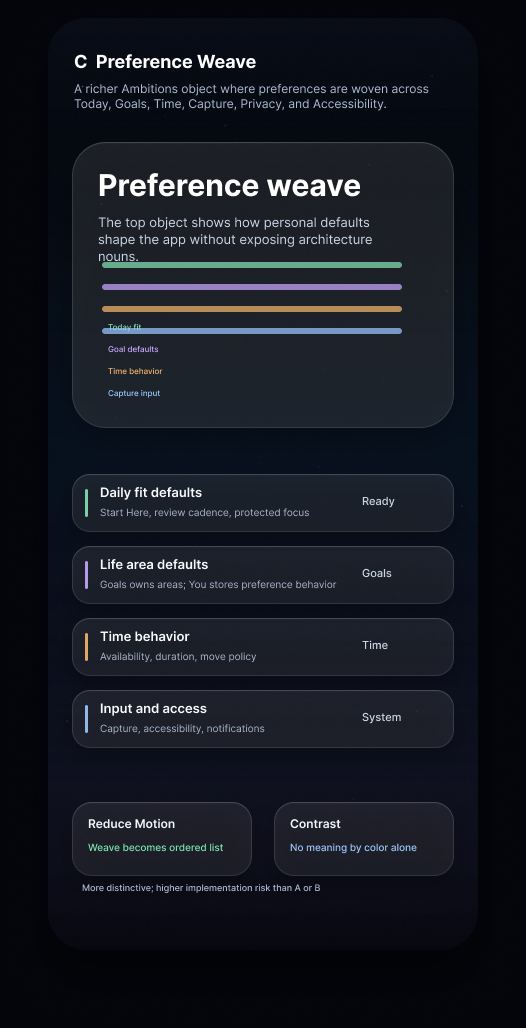
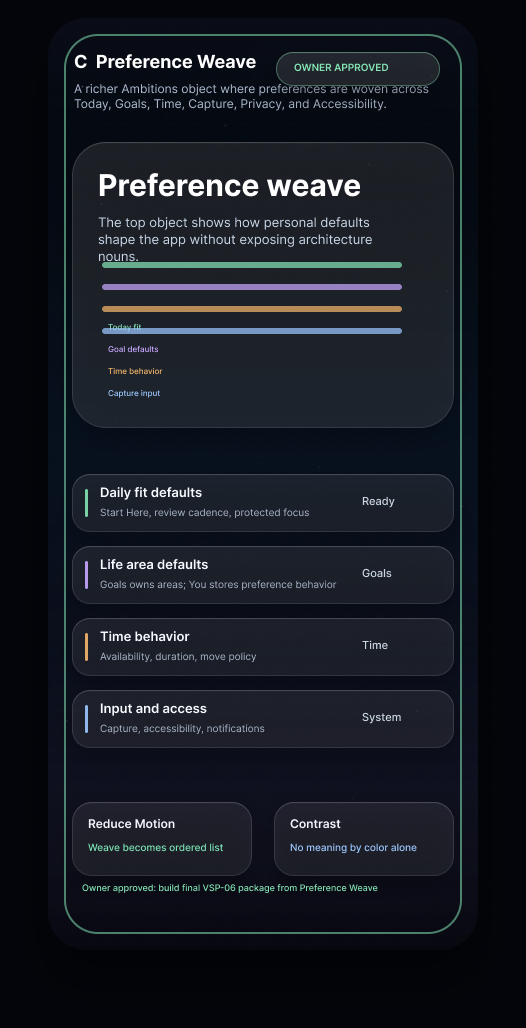
Record VSP-06 Preference Weave owner approval

Changed region(s): [[0.5171, 0.0311, 0.8821, 0.9027], [0.1217, 0.0311, 0.6388, 0.9027], [0.6692, 0.8405, 0.6996, 0.8716]]

diff --git a/docs/design/provenance/VSP-SwiftUI-Provenance-Map.md b/docs/design/provenance/VSP-SwiftUI-Provenance-Map.md
@@ -23,7 +23,7 @@ VSP-01 is the immutable approved shell authority. VSP-02 through VSP-10 are Yell
 | VSP-03 | Goals Life Area Atlas | surface_content | docs/qa/evidence/2026-06-29-vsp-north-star-figma/images/vsp-03-goals-hero-r1-repaired.png<br>docs/qa/evidence/2026-06-29-vsp-north-star-figma/images/vsp-03-goals-crop-r1.png<br>docs/qa/evidence/2026-06-29-vsp-north-star-figma/images/vsp-03-goals-launch-board-r1.png<br>docs/qa/evidence/2026-06-30-vsp-03-part-02-living-map-territory-refinements-r1/vsp-03-part-02-territory-refinements-board-r1.png<br>docs/qa/evidence/2026-06-30-vsp-03-part-02-living-map-territory-refinements-r1/vsp-03-part-02-d1-continuous-territory-field-r1.png<br>docs/qa/evidence/2026-06-30-vsp-03-part-02-living-map-territory-refinements-r1/vsp-03-part-02-d2-editable-atlas-boundaries-r1.png<br>docs/qa/evidence/2026-06-30-vsp-03-part-02-living-map-territory-refinements-r1/vsp-03-part-02-d3-path-overlay-territory-r1.png<br>docs/qa/evidence/2026-06-30-vsp-03-part-02-living-map-territory-refinements-r1/vsp-03-part-02-d4-capacity-weather-map-r1.png<br>docs/qa/evidence/2026-06-30-vsp-03-part-02-living-map-territory-refinements-r1/vsp-03-part-02-d5-focus-lens-territory-r1.png<br>docs/qa/evidence/2026-06-30-vsp-03-part-02-living-map-territory-refinements-r1/vsp-03-part-02-d6-open-field-shoreline-r1.png<br>docs/qa/evidence/2026-06-30-vsp-03-part-02-d5-selection-r1/vsp-03-part-02-d5-selection-board-r1.png<br>docs/qa/evidence/2026-06-30-vsp-03-part-02-d5-selection-r1/vsp-03-part-02-d5-selected-crop-r1.png<br>docs/qa/evidence/2026-06-30-vsp-03-d5-owner-review-package-r1/vsp-03-d5-owner-review-package-r1-board.png<br>docs/qa/evidence/2026-06-30-vsp-03-d5-owner-review-package-r1/vsp-03-d5-owner-review-package-r1-hero.png<br>docs/qa/evidence/2026-06-30-vsp-03-d5-owner-review-package-r1/vsp-03-d5-owner-review-package-r1-state-matrix.png<br>docs/qa/evidence/2026-06-30-vsp-03-d5-owner-review-package-r1/vsp-03-d5-owner-review-package-r1-accessibility-matrix.png<br>docs/qa/evidence/2026-06-30-vsp-03-d5-owner-review-package-r1/vsp-03-d5-owner-review-package-r1-swiftui-anatomy.png<br>docs/qa/evidence/2026-06-30-vsp-03-d5-owner-review-package-r1/vsp-03-d5-owner-review-package-r1-marketing-crop.png<br>docs/qa/evidence/2026-06-30-vsp-03-d5-owner-review-package-r1/vsp-03-d5-owner-review-package-r1-non-claims.png<br>docs/qa/evidence/2026-06-29-vsp-north-star-figma/screenshot-index.md<br>docs/qa/evidence/2026-06-29-vsp-north-star-figma/visual-audit-ledger.md<br>docs/design/provenance/figma-frames/VSP-03-part-01-life-area-atlas-root-object-options-R1.md<br>docs/qa/evidence/2026-06-30-vsp-03-part-01-life-area-atlas-options-r1/manifest.md<br>docs/design/provenance/figma-frames/VSP-03-part-02-living-map-territory-refinements-R1.md<br>docs/qa/evidence/2026-06-30-vsp-03-part-02-living-map-territory-refinements-r1/manifest.md<br>docs/design/provenance/figma-frames/VSP-03-part-02-D5-focus-lens-selection-R1.md<br>docs/qa/evidence/2026-06-30-vsp-03-part-02-d5-selection-r1/manifest.md<br>docs/design/provenance/figma-frames/VSP-03-D5-focus-lens-owner-review-package-R1.md<br>docs/qa/evidence/2026-06-30-vsp-03-d5-owner-review-package-r1/manifest.md<br>docs/design/provenance/owner-approvals/VSP-03-D5-Focus-Lens-Territory-approval.md | Native/Ambitions/Surfaces/Goals/GoalsSurface.swift<br>Native/Ambitions/Surfaces/Goals/GoalsObjectView.swift<br>Native/Ambitions/Projection/StageScenes/GoalsStageScene.swift | Native/Ambitions/Surfaces/Goals<br>Native/Ambitions/Projection/StageScenes<br>Sources/Components | Native/Ambitions/Stage shell mutations<br>generic project-board root pattern<br>productivity-score or ranking root<br>stale top-level IA | AMB-1482 | Yellow | live SwiftUI screenshot<br>device screenshot<br>Dynamic Type<br>VoiceOver<br>Reduce Motion<br>Increase Contrast<br>Reduce Transparency<br>haptics<br>runtime behavior | Spec Ready |
 | VSP-04 | Time / Native Month Life Calendar | surface_content | docs/qa/evidence/2026-06-29-vsp-north-star-figma/images/vsp-04-time-hero-r1-repaired.png<br>docs/qa/evidence/2026-06-29-vsp-north-star-figma/images/vsp-04-time-crop-r1.png<br>docs/qa/evidence/2026-06-29-vsp-north-star-figma/images/vsp-04-time-launch-board-r1.png<br>docs/qa/evidence/2026-06-30-vsp-04-part-01-lifeshape-options-r1/vsp-04-part-01-options-board-r1.png<br>docs/qa/evidence/2026-06-30-vsp-04-part-01-lifeshape-options-r1/vsp-04-part-01-option-a-lifeshape-field-r1.png<br>docs/qa/evidence/2026-06-30-vsp-04-part-01-lifeshape-options-r1/vsp-04-part-01-option-b-protected-time-weave-r1.png<br>docs/qa/evidence/2026-06-30-vsp-04-part-01-lifeshape-options-r1/vsp-04-part-01-option-c-day-night-tide-r1.png<br>docs/qa/evidence/2026-06-30-vsp-04-part-01-lifeshape-options-r1/vsp-04-part-01-option-d-time-loom-meridian-r1.png<br>docs/qa/evidence/2026-06-30-vsp-04-part-01-lifeshape-options-r1/vsp-04-part-01-option-e-capacity-topography-r1.png<br>docs/qa/evidence/2026-06-30-vsp-04-part-01-lifeshape-options-r1/vsp-04-part-01-option-f-aperture-calendar-field-r1.png<br>docs/qa/evidence/2026-06-30-vsp-04-part-02-native-month-life-calendar-r1/vsp-04-part-02-native-month-options-board-r1.png<br>docs/qa/evidence/2026-06-30-vsp-04-part-02-native-month-life-calendar-r1/vsp-04-part-02-option-a-native-capacity-month-r1.png<br>docs/qa/evidence/2026-06-30-vsp-04-part-02-native-month-life-calendar-r1/vsp-04-part-02-option-b-unequal-week-bands-r1.png<br>docs/qa/evidence/2026-06-30-vsp-04-part-02-native-month-life-calendar-r1/vsp-04-part-02-option-c-current-aperture-month-r1.png<br>docs/qa/evidence/2026-06-30-vsp-04-part-02-native-month-life-calendar-r1/vsp-04-part-02-option-d-protected-month-r1.png<br>docs/qa/evidence/2026-06-30-vsp-04-part-02-native-month-life-calendar-r1/vsp-04-part-02-option-e-goal-fit-month-r1.png<br>docs/qa/evidence/2026-06-30-vsp-04-part-02-native-month-life-calendar-r1/vsp-04-part-02-option-f-apple-native-life-calendar-r1.png<br>docs/qa/evidence/2026-06-30-vsp-04-part-02-f-selection-r1/vsp-04-part-02-f-selection-board-r1.png<br>docs/qa/evidence/2026-06-30-vsp-04-part-02-f-selection-r1/vsp-04-part-02-f-selected-crop-r1.png<br>docs/qa/evidence/2026-06-30-vsp-04-f-owner-review-package-r1/vsp-04-f-owner-review-package-r1-board.png<br>docs/qa/evidence/2026-06-30-vsp-04-f-owner-review-package-r1/vsp-04-f-owner-review-package-r1-hero.png<br>docs/qa/evidence/2026-06-30-vsp-04-f-owner-review-package-r1/vsp-04-f-owner-review-package-r1-state-matrix.png<br>docs/qa/evidence/2026-06-30-vsp-04-f-owner-review-package-r1/vsp-04-f-owner-review-package-r1-accessibility-matrix.png<br>docs/qa/evidence/2026-06-30-vsp-04-f-owner-review-package-r1/vsp-04-f-owner-review-package-r1-swiftui-anatomy.png<br>docs/qa/evidence/2026-06-30-vsp-04-f-owner-review-package-r1/vsp-04-f-owner-review-package-r1-marketing-crop.png<br>docs/qa/evidence/2026-06-30-vsp-04-f-owner-review-package-r1/vsp-04-f-owner-review-package-r1-non-claims.png<br>docs/qa/evidence/2026-06-29-vsp-north-star-figma/screenshot-index.md<br>docs/qa/evidence/2026-06-29-vsp-north-star-figma/visual-audit-ledger.md<br>docs/design/targets/time/lifeshape_field_visual_target.md<br>docs/design/provenance/figma-frames/VSP-04-part-01-time-lifeshape-root-object-options-R1.md<br>docs/qa/evidence/2026-06-30-vsp-04-part-01-lifeshape-options-r1/manifest.md<br>docs/design/provenance/figma-frames/VSP-04-part-02-native-month-life-calendar-options-R1.md<br>docs/qa/evidence/2026-06-30-vsp-04-part-02-native-month-life-calendar-r1/manifest.md<br>docs/design/provenance/figma-frames/VSP-04-part-02-F-apple-native-life-calendar-selection-R1.md<br>docs/qa/evidence/2026-06-30-vsp-04-part-02-f-selection-r1/manifest.md<br>docs/design/provenance/owner-approvals/VSP-04-F-Apple-Native-Life-Calendar-direction-approval.md<br>docs/design/provenance/figma-frames/VSP-04-F-apple-native-life-calendar-owner-review-package-R1.md<br>docs/qa/evidence/2026-06-30-vsp-04-f-owner-review-package-r1/manifest.md<br>docs/design/provenance/owner-approvals/VSP-04-F-Apple-Native-Life-Calendar-package-approval.md | Native/Ambitions/Surfaces/Time/TimeSurface.swift<br>Native/Ambitions/Surfaces/Time/TimeObjectView.swift<br>Native/Ambitions/Surfaces/Time/TimeAccessibility.swift | Native/Ambitions/Surfaces/Time<br>Native/Ambitions/Core/Time<br>Native/Ambitions/Core/LocalRuntimeOS/TimeEngine<br>Native/Ambitions/DesignSystem/ProductObjects<br>Native/Ambitions/Rendering/CanvasPrimitives<br>Sources/Components | Native/Ambitions/Stage shell mutations<br>calendar-clone-only root pattern<br>top-level stale planning IA<br>unproven external calendar dependency for core value<br>Today-owned day timeline duplication as Time root | AMB-1483 | Yellow | live SwiftUI screenshot<br>device screenshot<br>Dynamic Type<br>VoiceOver<br>Reduce Motion<br>Increase Contrast<br>Reduce Transparency<br>haptics<br>runtime behavior | Spec Ready |
 | VSP-05 | Capture Open Field Composer | global_composer | docs/qa/evidence/2026-06-30-vsp-05-f-owner-review-package-r3/vsp-05-f-owner-review-package-r3-board.png<br>docs/qa/evidence/2026-06-30-vsp-05-f-owner-review-package-r3/vsp-05-f-owner-review-package-r3-hero.png<br>docs/qa/evidence/2026-06-30-vsp-05-f-owner-review-package-r3/vsp-05-f-owner-review-package-r3-state-matrix.png<br>docs/qa/evidence/2026-06-30-vsp-05-f-owner-review-package-r3/vsp-05-f-owner-review-package-r3-accessibility-matrix.png<br>docs/qa/evidence/2026-06-30-vsp-05-f-owner-review-package-r3/vsp-05-f-owner-review-package-r3-swiftui-anatomy.png<br>docs/qa/evidence/2026-06-30-vsp-05-f-owner-review-package-r3/vsp-05-f-owner-review-package-r3-marketing-crop.png<br>docs/qa/evidence/2026-06-30-vsp-05-f-owner-review-package-r3/vsp-05-f-owner-review-package-r3-non-claims.png<br>docs/qa/evidence/2026-06-30-vsp-05-part-01-capture-options-r2/vsp-05-part-01-option-f-quiet-placement-review-r2.png<br>docs/qa/evidence/2026-06-30-vsp-05-part-01-capture-options-r2/vsp-05-part-01-options-board-r2.png<br>docs/qa/evidence/2026-06-30-vsp-05-part-01-capture-options-r2/vsp-05-part-01-option-d-keyboard-native-stage-composer-r2.png<br>docs/qa/evidence/2026-06-30-vsp-05-part-01-capture-options-r2/vsp-05-part-01-option-b-route-bloom-composer-r2.png<br>docs/design/provenance/figma-frames/VSP-05-F-quiet-placement-review-owner-review-package-R3.md<br>docs/design/provenance/owner-approvals/VSP-05-F-Quiet-Placement-Review-package-approval.md<br>docs/qa/evidence/2026-06-30-vsp-05-f-owner-review-package-r3/manifest.md<br>docs/design/provenance/owner-approvals/VSP-05-F-Quiet-Placement-Review-direction-approval.md<br>docs/design/provenance/figma-frames/VSP-05-part-01-global-capture-composer-options-R2.md<br>docs/qa/evidence/2026-06-30-vsp-05-part-01-capture-options-r2/manifest.md<br>docs/qa/evidence/2026-06-30-vsp-05-part-01-capture-options-r1/manifest.md<br>docs/qa/evidence/2026-06-30-vsp-05-part-01-capture-options-r1/vsp-05-part-01-options-board-r1.png | Native/Ambitions/Composer/Capture/CaptureComposerSurface.swift<br>Native/Ambitions/Composer/Capture/CaptureSurface.swift<br>Native/Ambitions/Composer/Capture/CaptureObjectView.swift | Native/Ambitions/Composer/Capture<br>Native/Ambitions/Stage/Overlays<br>Sources/Components | Native/Ambitions/Surfaces/Capture<br>Capture root tab<br>Capture inbox/feed<br>chatbot composer as core architecture<br>persistent floating root affordance | AMB-1484 | Yellow | live SwiftUI screenshot<br>device screenshot<br>Dynamic Type<br>VoiceOver<br>Reduce Motion<br>Increase Contrast<br>Reduce Transparency<br>haptics<br>runtime behavior | Spec Ready |
-| VSP-06 | You Native Settings | surface_content | docs/qa/evidence/2026-06-30-vsp-06-part-03-ambitions-owned-you-directions-r1/images/vsp-06-part-03-ambitions-owned-you-directions-board-r1.png<br>docs/qa/evidence/2026-06-30-vsp-06-part-03-ambitions-owned-you-directions-r1/images/vsp-06-option-d-local-control-observatory-r1.png<br>docs/qa/evidence/2026-06-30-vsp-06-part-03-ambitions-owned-you-directions-r1/images/vsp-06-option-b-trust-meridian-r1.png<br>docs/qa/evidence/2026-06-30-vsp-06-part-03-ambitions-owned-you-directions-r1/images/vsp-06-option-a-personal-os-field-r1.png<br>docs/qa/evidence/2026-06-30-vsp-06-part-03-ambitions-owned-you-directions-r1/images/vsp-06-option-c-preference-weave-r1.png<br>docs/design/provenance/figma-frames/VSP-06-part-03-ambitions-owned-you-directions-R1.md<br>docs/qa/evidence/2026-06-30-vsp-06-part-03-ambitions-owned-you-directions-r1/manifest.md<br>docs/design/provenance/figma-frames/VSP-06-part-02-settings-reference-adaptations-R1.md<br>docs/design/provenance/figma-frames/VSP-06-part-01-you-native-settings-options-R1.md<br>docs/qa/evidence/2026-06-30-vsp-06-part-02-settings-reference-adaptations-r1/manifest.md<br>docs/qa/evidence/2026-06-30-vsp-06-part-01-you-options-r1/manifest.md | Native/Ambitions/Surfaces/You/YouSurface.swift<br>Native/Ambitions/Surfaces/You/YouRootSurface.swift<br>Native/Ambitions/Surfaces/You/YouObjectView.swift | Native/Ambitions/Surfaces/You<br>Native/Ambitions/Trust<br>Sources/Components | old profile IA as root<br>account-required core value<br>private runtime graph backend<br>generic settings dashboard without real controls | AMB-1485 | Yellow | owner approval<br>live SwiftUI screenshot<br>device screenshot<br>Dynamic Type<br>VoiceOver<br>Reduce Motion<br>Increase Contrast<br>Reduce Transparency<br>runtime behavior<br>privacy boundary | Ready For Review |
+| VSP-06 | You Native Settings | surface_content | docs/qa/evidence/2026-06-30-vsp-06-part-03-ambitions-owned-you-directions-r1/images/vsp-06-option-c-preference-weave-r1.png<br>docs/qa/evidence/2026-06-30-vsp-06-part-03-ambitions-owned-you-directions-r1/images/vsp-06-part-03-ambitions-owned-you-directions-board-r1.png<br>docs/qa/evidence/2026-06-30-vsp-06-part-03-ambitions-owned-you-directions-r1/images/vsp-06-option-d-local-control-observatory-r1.png<br>docs/qa/evidence/2026-06-30-vsp-06-part-03-ambitions-owned-you-directions-r1/images/vsp-06-option-b-trust-meridian-r1.png<br>docs/qa/evidence/2026-06-30-vsp-06-part-03-ambitions-owned-you-directions-r1/images/vsp-06-option-a-personal-os-field-r1.png<br>docs/qa/evidence/2026-06-30-vsp-06-part-03-ambitions-owned-you-directions-r1/owner-approval.md<br>docs/design/provenance/figma-frames/VSP-06-part-03-ambitions-owned-you-directions-R1.md<br>docs/qa/evidence/2026-06-30-vsp-06-part-03-ambitions-owned-you-directions-r1/manifest.md<br>docs/design/provenance/figma-frames/VSP-06-part-02-settings-reference-adaptations-R1.md<br>docs/design/provenance/figma-frames/VSP-06-part-01-you-native-settings-options-R1.md<br>docs/qa/evidence/2026-06-30-vsp-06-part-02-settings-reference-adaptations-r1/manifest.md<br>docs/qa/evidence/2026-06-30-vsp-06-part-01-you-options-r1/manifest.md | Native/Ambitions/Surfaces/You/YouSurface.swift<br>Native/Ambitions/Surfaces/You/YouRootSurface.swift<br>Native/Ambitions/Surfaces/You/YouObjectView.swift | Native/Ambitions/Surfaces/You<br>Native/Ambitions/Trust<br>Sources/Components | old profile IA as root<br>account-required core value<br>private runtime graph backend<br>generic settings dashboard without real controls | AMB-1485 | Yellow | live SwiftUI screenshot<br>device screenshot<br>Dynamic Type<br>VoiceOver<br>Reduce Motion<br>Increase Contrast<br>Reduce Transparency<br>runtime behavior<br>privacy boundary | Accepted Yellow |
 | VSP-07 | Trust Inspection Details | contextual_inspection | docs/qa/evidence/2026-06-29-vsp-north-star-figma/images/vsp-07-trust-hero-r1.png<br>docs/qa/evidence/2026-06-29-vsp-north-star-figma/images/vsp-07-trust-crop-r1.png<br>docs/qa/evidence/2026-06-29-vsp-north-star-figma/images/vsp-07-trust-launch-board-r1.png<br>docs/qa/evidence/2026-06-29-vsp-north-star-figma/screenshot-index.md<br>docs/qa/evidence/2026-06-29-vsp-code-connect-readiness/manifest.json | Native/Ambitions/Trust/InspectionSurface.swift<br>Native/Ambitions/Trust/ProofInspectionView.swift<br>Native/Ambitions/Trust/SourceInspectionView.swift<br>Native/Ambitions/Trust/PrivacyInspectionView.swift<br>Native/Ambitions/Trust/ReceiptInspectionView.swift | Native/Ambitions/Trust<br>Native/Ambitions/Projection/OverlayScenes<br>Sources/Components | Trust root surface<br>Proof root surface<br>Source root surface<br>Privacy root surface<br>History root surface<br>Receipts root surface | AMB-1486 | Yellow | owner approval<br>live SwiftUI screenshot<br>device screenshot<br>Dynamic Type<br>VoiceOver<br>Reduce Motion<br>Increase Contrast<br>Reduce Transparency<br>runtime behavior<br>privacy boundary | Needs Repair |
 | VSP-08 | External Boundaries | external_boundary | docs/qa/evidence/2026-06-29-vsp-north-star-figma/images/vsp-08-boundaries-hero-r1.png<br>docs/qa/evidence/2026-06-29-vsp-north-star-figma/images/vsp-08-boundaries-crop-r1.png<br>docs/qa/evidence/2026-06-29-vsp-north-star-figma/images/vsp-08-boundaries-launch-board-r1.png<br>docs/qa/evidence/2026-06-29-vsp-north-star-figma/screenshot-index.md<br>docs/qa/evidence/2026-06-29-vsp-code-connect-readiness/manifest.json<br>docs/qa/KNOWN_ISSUES.md | Native/Ambitions/DesignSystem/StagePrimitives/SharedUI/SourceAtlasUIPrimitives.swift<br>Native/Ambitions/Core/LocalRuntimeOS/RuntimeBoundary/SourceAtlasNoPrivateGraphEgressAudit.swift<br>Native/Ambitions/Core/LocalRuntimeOS/RuntimeBoundary/SourceAtlasPublicArtifactBoundary.swift | Native/Ambitions/Core/LocalRuntimeOS/RuntimeBoundary<br>Native/Ambitions/DesignSystem/StagePrimitives/SharedUI<br>Native/Ambitions/Trust | R2 private life graph storage<br>account-required core value<br>external/cloud LLM core runtime<br>private user context in Source Atlas<br>network dependency for offline core value | AMB-1487 | Yellow | owner approval<br>live SwiftUI screenshot<br>device screenshot<br>Dynamic Type<br>VoiceOver<br>Reduce Motion<br>Increase Contrast<br>Reduce Transparency<br>runtime behavior<br>privacy boundary | Needs Repair |
 | VSP-09 | Motion / Haptics / Accessibility Matrix | motion_accessibility_haptics | docs/qa/evidence/2026-06-29-vsp-north-star-figma/images/vsp-09-motion-hero-r1.png<br>docs/qa/evidence/2026-06-29-vsp-north-star-figma/images/vsp-09-motion-crop-r1.png<br>docs/qa/evidence/2026-06-29-vsp-north-star-figma/images/vsp-09-motion-launch-board-r1.png<br>docs/qa/evidence/2026-06-30-vsp-09-10-delegated-approval/vsp-09-accessibility-motion-haptics-approved.png<br>docs/design/provenance/figma-frames/VSP-09-accessibility-motion-haptics-matrix-R1.md<br>docs/design/provenance/owner-approvals/VSP-09-Accessibility-Motion-Haptics-Matrix-approval.md<br>docs/qa/evidence/2026-06-29-vsp-north-star-figma/screenshot-index.md<br>docs/qa/evidence/2026-06-29-vsp-code-connect-readiness/manifest.json | Native/Ambitions/Stage/Motion/StageMotionReductionPolicy.swift<br>Native/Ambitions/Stage/Motion/StageMotionAccessibility.swift<br>Native/Ambitions/Interaction/HapticPolicy.swift<br>Native/Ambitions/DesignSystem/Accessibility/ReduceMotionPolicy.swift | Native/Ambitions/Stage/Motion<br>Native/Ambitions/Interaction<br>Native/Ambitions/DesignSystem/Accessibility<br>Sources/Accessibility<br>Sources/Components | Native/Ambitions/Surfaces/Motion<br>Motion root destination<br>motion analytics dashboard<br>score/streak/XP layer | AMB-1488 | Yellow | live SwiftUI screenshot<br>device screenshot<br>Dynamic Type<br>VoiceOver<br>Reduce Motion<br>Increase Contrast<br>Reduce Transparency<br>haptics<br>runtime behavior | Spec Ready |

diff --git a/docs/design/provenance/figma-frames/VSP-06-part-03-ambitions-owned-you-directions-R1.md b/docs/design/provenance/figma-frames/VSP-06-part-03-ambitions-owned-you-directions-R1.md
@@ -15,10 +15,10 @@ Rejected prior pass: `FAILURE_EVIDENCE - VSP-06 - Part 02 too literal to supplie
 Options:
 - A Personal OS Field
 - B Trust Meridian
-- C Preference Weave
-- D Local Control Observatory
+- C Preference Weave (owner approved)
+- D Local Control Observatory (non-selected context)
 
-Recommended interpretation: Option D Local Control Observatory should be the next candidate direction. It is the best balance of Ambitions ownership, native plausibility, local-first proof clarity, and non-dashboard restraint. Option B Trust Meridian should inform the final information order: local custody, reuse rules, permission edges, and account/external boundary.
+Owner-approved interpretation: Option C Preference Weave is the approved direction for the next VSP-06 candidate package. Option B Trust Meridian may inform information ordering for local custody, reuse rules, permission edges, and account/external boundary. Option D Local Control Observatory is non-selected context only.
 
 SwiftUI provenance anchors:
 - `Native/Ambitions/Surfaces/You/YouRootSurface.swift`
@@ -29,7 +29,7 @@ SwiftUI provenance anchors:
 Evidence:
 - `docs/qa/evidence/2026-06-30-vsp-06-part-03-ambitions-owned-you-directions-r1/manifest.md`
 - `docs/qa/evidence/2026-06-30-vsp-06-part-03-ambitions-owned-you-directions-r1/images/vsp-06-part-03-ambitions-owned-you-directions-board-r1.png`
-- `docs/qa/evidence/2026-06-30-vsp-06-part-03-ambitions-owned-you-directions-r1/images/vsp-06-option-d-local-control-observatory-r1.png`
+- `docs/qa/evidence/2026-06-30-vsp-06-part-03-ambitions-owned-you-directions-r1/images/vsp-06-option-c-preference-weave-r1.png`
 - `docs/qa/evidence/2026-06-30-vsp-06-part-03-ambitions-owned-you-directions-r1/images/vsp-06-option-b-trust-meridian-r1.png`
 
-Non-claims: this is not owner approval, source implementation, Visual Green, Done, device proof, accessibility proof, or Code Connect proof.
+Non-claims: this owner approval covers only the visual direction. It is not source implementation, Visual Green, Done, device proof, accessibility proof, runtime proof, or Code Connect proof.

diff --git a/docs/design/provenance/Linear-Issue-Pack.md b/docs/design/provenance/Linear-Issue-Pack.md
@@ -208,12 +208,13 @@ Rollback plan:
 ## VSP-06 - VSP-06 You Native Settings
 
 - Parent issue mirror: `AMB-1485`
-- Recommended status: `Ready For Review`
-- Labels: VSP, you, settings, owner-direction-needed, yellow-proof
+- Recommended status: `Accepted Yellow`
+- Labels: VSP, you, settings, owner-approved-direction, yellow-proof
 - Blocked by: owner direction selection, VSP-01 shell authority, VSP-10 source-owner map, VSP-09 accessibility matrix, final VSP-06 package approval
 - Do not create now: `True`
 
 Acceptance summary:
+- Owner approved Part 03 Option C Preference Weave as VSP-06 direction.
 - Part 02 is rejected as too literal to supplied references.
 - Part 03 keeps only reference intent and uses Ambitions-owned object language.
 - You remains native settings/user system.
@@ -224,9 +225,8 @@ Validation summary:
 - python3 scripts/ambitions-green-standard-audit.py
 - python3 scripts/ambitions-vsp-provenance-audit.py
 Recommended sub-issues:
-- Owner-select VSP-06 Ambitions-owned You direction - scope: Figma review only; Part 03 recommends D Local Control Observatory with B Trust Meridian ordering - status: Ready For Review
-- Produce VSP-06 final candidate package after direction selection - scope: Figma package only: hero, state matrix, accessibility matrix, SwiftUI anatomy, non-goals - status: Needs Direction
-- Produce You SwiftUI parity leaf - scope: Surfaces/You only, native settings rows with real targets - status: Spec Ready after owner approval
+- Build VSP-06 final package from owner-approved Preference Weave - scope: Figma package only: hero, state matrix, accessibility matrix, SwiftUI anatomy, non-goals - status: Ready For Review after package build
+- Produce You SwiftUI parity leaf - scope: Surfaces/You only, native settings rows with real targets - status: Spec Ready after final package approval
 
 Standard Codex closeout block:
 

diff --git a/docs/design/provenance/Figma-Annotation-Pack.md b/docs/design/provenance/Figma-Annotation-Pack.md
@@ -85,14 +85,14 @@ Non-claim: this annotation is not Code Connect, not Visual Green, not source imp
 
 ```text
 Annotation title: VSP-06 provenance - You Native Settings
-Frame naming recommendation: EXPLORATION - VSP-06 - PART 03 - Ambitions-owned You directions - R1
+Frame naming recommendation: EXPLORATION - VSP-06 - Option C - Preference Weave - R1
 Shell relationship: requires VSP-01 shell = True; may mutate shell = False
 SwiftUI source owner: Native/Ambitions/Surfaces/You/YouSurface.swift, Native/Ambitions/Surfaces/You/YouRootSurface.swift, Native/Ambitions/Surfaces/You/YouObjectView.swift
 Allowed implementation area: Native/Ambitions/Surfaces/You, Native/Ambitions/Trust, Sources/Components
 Forbidden implementation area: old profile IA as root, account-required core value, private runtime graph backend, generic settings dashboard without real controls
 Proof ceiling: Yellow
-Missing proof: owner direction selection for Part 03, owner approval of final VSP-06 package, live SwiftUI You parity screenshot, device screenshot, manual accessibility matrix, offline/account boundary proof
-Linear mirror: AMB-1485 (Ready For Review)
+Missing proof: final VSP-06 candidate package from approved C Preference Weave direction, live SwiftUI You parity screenshot, device screenshot, manual accessibility matrix, offline/account boundary proof
+Linear mirror: AMB-1485 (Accepted Yellow)
 Non-claim: this annotation is not Code Connect, not Visual Green, not source implementation, and not owner approval.
 ```
 

diff --git a/docs/qa/evidence/2026-06-30-vsp-06-part-03-ambitions-owned-you-directions-r1/manifest.md b/docs/qa/evidence/2026-06-30-vsp-06-part-03-ambitions-owned-you-directions-r1/manifest.md
@@ -1,6 +1,6 @@
 # VSP-06 Part 03 Ambitions-Owned You Directions R1
 
-Status: Yellow owner-direction evidence only.
+Status: Owner-approved direction, Yellow proof ceiling.
 
 Figma file: `SWtHm9ouHTPbEFfNrrtZwv`
 
@@ -21,7 +21,7 @@ Board screenshot: `images/vsp-06-part-03-ambitions-owned-you-directions-board-r1
 
 Why this pass exists: Part 02 was rejected because it followed the supplied screenshots too literally. Part 03 keeps only the intent from those references: native clarity, grouped controls, local-first account/privacy boundaries, and detail-sheet behavior.
 
-Recommended read: Option D Local Control Observatory is the strongest replacement direction. Option B Trust Meridian should inform the ordering model for custody, reuse, permissioned edges, and external/account boundaries.
+Owner-approved direction: Option C Preference Weave. Option B Trust Meridian remains optional ordering context for custody, reuse, permissioned edges, and external/account boundaries. Option D Local Control Observatory is non-selected context only.
 
 Product-law notes:
 - VSP-01 shell is required and unchanged.
@@ -31,7 +31,7 @@ Product-law notes:
 - R2 and Source Atlas remain reference/freshness boundaries, not private life graph storage.
 
 Non-claims:
-- No owner approval.
+- Owner approval recorded in `owner-approval.md`.
 - No source implementation.
 - No Visual Green or Done claim.
 - No live SwiftUI, simulator, device, accessibility, or runtime proof.

diff --git a/docs/qa/evidence/2026-06-30-vsp-06-part-03-ambitions-owned-you-directions-r1/owner-approval.md b/docs/qa/evidence/2026-06-30-vsp-06-part-03-ambitions-owned-you-directions-r1/owner-approval.md
@@ -1,0 +1,31 @@
+# VSP-06 Owner Approval - Part 03 Option C
+
+Status: owner-approved visual direction, Yellow proof ceiling.
+
+Approved direction: `EXPLORATION - VSP-06 - Option C - Preference Weave - R1`
+
+Approved node: `232:248`
+
+Approval source: owner message on 2026-06-30: `C, owner approval`.
+
+Figma board: `EXPLORATION - VSP-06 - PART 03 - Ambitions-owned You directions - R1`
+
+Board node: `232:93`
+
+Interpretation:
+- Option C Preference Weave is the approved direction for the next VSP-06 package pass.
+- Option B Trust Meridian remains optional ordering context only.
+- Option D Local Control Observatory is not selected.
+- Part 02 remains rejected failure evidence because it copied the supplied references too literally.
+
+Product-law boundary:
+- VSP-01 shell authority remains unchanged.
+- You remains a native settings/user-system surface.
+- Capture remains global composer, not a tab or You root area.
+- Account support remains optional and cannot gate offline core value.
+- R2 and Source Atlas remain reference/freshness boundaries, not private life graph storage.
+
+Non-claims:
+- This is not source implementation approval.
+- This is not Visual Green, Done, Release Green, simulator proof, device proof, accessibility proof, runtime proof, or Code Connect proof.
+- A final VSP-06 package is still required before Codex implementation handoff.

diff --git a/docs/design/provenance/Component-Gallery.md b/docs/design/provenance/Component-Gallery.md
@@ -187,11 +187,11 @@ Required later for Green: live render, screenshot matrix, accessibility matrix, 
 ## VSP-06 - You Native Settings
 
 Figma candidate screenshots:
+- docs/qa/evidence/2026-06-30-vsp-06-part-03-ambitions-owned-you-directions-r1/images/vsp-06-option-c-preference-weave-r1.png
 - docs/qa/evidence/2026-06-30-vsp-06-part-03-ambitions-owned-you-directions-r1/images/vsp-06-part-03-ambitions-owned-you-directions-board-r1.png
 - docs/qa/evidence/2026-06-30-vsp-06-part-03-ambitions-owned-you-directions-r1/images/vsp-06-option-d-local-control-observatory-r1.png
 - docs/qa/evidence/2026-06-30-vsp-06-part-03-ambitions-owned-you-directions-r1/images/vsp-06-option-b-trust-meridian-r1.png
 - docs/qa/evidence/2026-06-30-vsp-06-part-03-ambitions-owned-you-directions-r1/images/vsp-06-option-a-personal-os-field-r1.png
-- docs/qa/evidence/2026-06-30-vsp-06-part-03-ambitions-owned-you-directions-r1/images/vsp-06-option-c-preference-weave-r1.png
 SwiftUI source owners:
 - Native/Ambitions/Surfaces/You/YouSurface.swift
 - Native/Ambitions/Surfaces/You/YouRootSurface.swift

diff --git a/docs/design/provenance/Gap-Register.md b/docs/design/provenance/Gap-Register.md
@@ -102,13 +102,11 @@ Claim boundary: this document is a Git-owned provenance/handoff artifact. It is 
 - Reduce Transparency
 - VoiceOver
 - device screenshot
+- final VSP-06 candidate package from approved C Preference Weave direction
 - live SwiftUI You parity screenshot
 - live SwiftUI screenshot
 - manual accessibility matrix
 - offline/account boundary proof
-- owner approval
-- owner approval of final VSP-06 package
-- owner direction selection for Part 03
 - privacy boundary
 - runtime behavior
 ### VSP-07 - Trust Inspection Details
